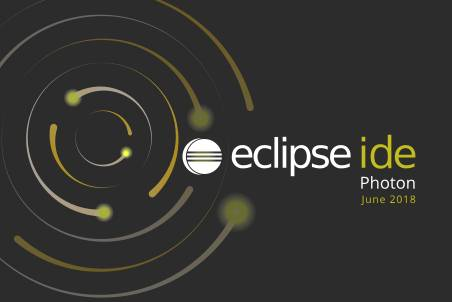
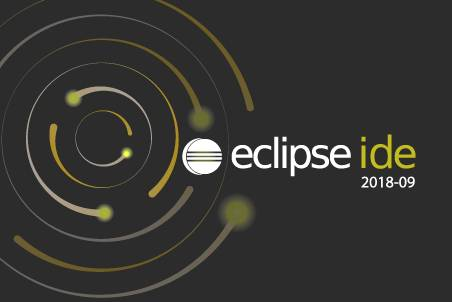
Añadida Actualización de Eclipse en Eclipse Instalación

diff --git a/otros/eclipse-instalacion.html b/otros/eclipse-instalacion.html
@@ -24,6 +24,7 @@
         <li><a href="#jre">Conseguir Java Runtime</a></li>
         <li><a href="#conseguir">Conseguir Eclipse PHP</a></li>
         <li><a href="#instalacion">Instalar Eclipse PHP</a></li>
+        <li><a href="#actualizacion">Actualizar Eclipse PHP</a></li>
       </ul>
     </div>
   </nav>
@@ -79,7 +80,19 @@
 
     <p>En este curso se aconseja utilizar el editor <strong>Eclipse for PHP Developers</strong> (Eclipse PHP).</p>
 
-    <p>La última versión disponible actualmente (septiembre de 2018) en la <a href="https://www.eclipse.org/downloads/packages/">web de Eclipse</a> es la versión Eclipse for PHP developers Photon, publicada el 27 de junio de 2018, basada en la plataforma Eclipse 4.8 y el plug-in Eclipse PDT 6.0.</p>
+    <p>La última versión disponible actualmente (septiembre de 2018) en la <a href="https://www.eclipse.org/downloads/packages/">web de Eclipse</a> es la versión Eclipse for PHP developers 2018-09, publicada el 19 de septiembre de 2018, basada en la plataforma Eclipse 4.9 y el plug-in Eclipse PDT 6.1.</p>
+
+    <p>Estos son los enlaces de descarga de Eclipse PHP 2018-09:</p>
+    <ul>
+      <li><a href="http://www.eclipse.org/downloads/download.php?file=/technology/epp/downloads/release/2018-09/R/eclipse-php-2018-09-win32-x86_64.zip">Eclipse for PHP developers 2018-09 (Windows, 64 bits, 204 MB)</a></li>
+      <li><a href="http://www.eclipse.org/downloads/download.php?file=/technology/epp/downloads/release/2018-09/R/eclipse-php-2018-09-win32.zip">Eclipse for PHP developers 2018-09 (Windows, 32 bits, 204 MB)</a></li>
+    </ul>
+
+    <p>Si se está utilizando Windows de 64 bits, se recomienda instalar la versión de 64 bits de Eclipse PHP (aunque también se podría instalar la de 32 bits). Pero si se está utilizando Windows de 32 bits, se necesita instalar la versión de 32 bits.</p>
+
+    <hr class="corta" />
+
+    <p>Al empezar el curso 2018/19 la última versión disponible era la versión Eclipse for PHP developers Photon, publicada el 27 de junio de 2018, basada en la plataforma Eclipse 4.8 y el plug-in Eclipse PDT 6.0.</p>
 
     <p>Estos son los enlaces de descarga de Eclipse PHP Photon:</p>
     <ul>
@@ -87,9 +100,10 @@
       <li><a href="http://www.eclipse.org/downloads/download.php?file=/technology/epp/downloads/release/photon/R/eclipse-php-photon-R-win32.zip">Eclipse for PHP developers Photon (Windows, 32 bits, 205 MB)</a></li>
     </ul>
 
-    <p>Si se está utilizando Windows de 64 bits, se recomienda instalar la versión de 64 bits de Eclipse PHP (aunque también se podría instalar la de 32 bits). Pero si se está utilizando Windows de 32 bits, se necesita instalar la versión de 32 bits.</p>
+    <hr class="corta" />
 
     <p>En <a href="http://www.cdlibre.org/">cdlibre.org</a> hay una sección dedicada a <a href="http://www.cdlibre.org/consultar/catalogo/Desarrollo-Web_PHP-Editores.html">editores específicos para PHP</a>, desde la que se puede descargar la última versión disponible de Eclipse PHP para Windows (64 bits).</p>
+
   </section>
 
   <section id="instalacion">
@@ -97,17 +111,52 @@
 
     <p>Eclipse for PHP developers (Eclipse PHP) no se distribuye con instalador, sino como un archivo zip que contiene una carpeta eclipse-php que incluye todos los componentes necesarios (excepto Java Runtime, que debe descargarse e instalarse previamente). En Windows el archivo zip se puede descomprimir en cualquier carpeta en la que el usuaro tenga permisos y crear un acceso directo al programa eclipse.exe.</p>
 
-    <p>Se pueden tener varias versiones de Eclipse PHP instalados en el mismo ordenador, cada uno en su propia carpeta.</p>
+    <p>Se pueden tener varias versiones de Eclipse PHP instaladas en el mismo ordenador, cada una en su propia carpeta.</p>
 
-    <p>En este curso se aconseja instalar Eclipse PHP en la carpeta <strong>C:\software\eclipse-php-photon</strong> y crear un acceso directo en el escritorio al programa eclipse.exe (<strong>C:\software\eclipse-php-photon\eclipse.exe</strong>).</p>
+    <p>En este curso se aconseja instalar Eclipse PHP 2018-09 en la carpeta <strong>C:\software\eclipse-php-1809</strong> y crear un acceso directo en el escritorio al programa eclipse.exe (<strong>C:\software\eclipse-php-1809\eclipse.exe</strong>).</p>
+
+    <p><strong>Nota</strong>: Al empezar el curso 2018/19 se aconsejó instalar Eclipse PHP Photon (la versión disponible entonces) en la carpeta <strong>C:\software\eclipse-php-photon</strong> y crear un acceso directo en el escritorio al programa eclipse.exe (<strong>C:\software\eclipse-php-photon\eclipse.exe</strong>).</p>
 
     <p>Eclipse PHP guarda toda la información de configuración y de trabajo en los llamados espacios de trabajo (workspace). Se pueden tener varios espacios de trabajo en el mismo ordenador y al iniciar Eclipse PHP se puede elegir el espacio de trabajo en el que se va a trabajar. En este curso se aconseja guardar el espacio de trabajo en la carpeta <strong>C:\software\eclipse-workspace-nombre-de-usuario-php</strong>, como se explica en la lección <a href="eclipse-configuracion-1.html">Configuración de Eclipse PHP (1)</a>.</p>
 
     <p>Los espacios de trabajo de una versión se pueden en principio usar en otra versión posterior, pero no al contrario. Al abrir un espacio de trabajo de una versión anterior, Eclipse avisa si es necesario hacer una conversión automática. Por otro lado, para no tener que empezar desde cero, la configuración de un espacio de trabajo se puede exportar e importarla en otro.</p>
   </section>
 
+  <section id="actualizacion">
+    <h2>Actualizar Eclipse for PHP developers en Windows</h2>
+
+    <p>Si quiere evitar cualquier tipo de problemas entre las diferentes versiones de Eclipse PHP, al instalar una nueva versión haga una instalación separada:</p>
+    <ul>
+      <li>instale la nueva versión de Eclipse PHP en una carpeta distinta a la de la versión anterior</li>
+      <li>cree una nueva carpeta para un nuevo espacio de trabajo (<i>workspace</i>), distinta a la carpeta del espacio de trabajo de la versión anterior</li>
+      <li>abra la nueva versión de Eclipse PHP y elija el nuevo espacio de trabajo</li>
+      <li>configure el nuevo workspace</li>
+      <li>compruebe que el nuevo Eclipse PHP funciona correctamente</li>
+      <li>al cabo de un tiempo, borre la versión antigua de Eclipse PHP y el antiguo espacio de trabajo</li>
+    </ul>
+
+    <p>Esta opción tiene el inconveniente de que es necesario configurar el nuevo Eclipse PHP desde cero.</p>
+
+    <hr class="corta" />
+
+    <p>Si quiere reutilizar el antiguo espacio de trabajo:</p>
+    <ul>
+      <li>instale la nueva versión de Eclipse PHP en una carpeta distinta a la de la versión anterior</li>
+      <li>abra la nueva versión de Eclipse PHP y elija el antiguo espacio de trabajo (<i>workspace</i>).</li>
+      <li>Eclipse PHP mostrará un aviso indicando que el espacio de trabajo fue crado por una versión anterior de Eclipse PHP y que su actualización a la nueva versión puede hacerlo incompatible con la versión anterior:
+        <p class="captura">
+          <img src="../img/eclipse/eclipse-workspace-actualizacion.png" alt="Eclipse. Actualización workspace" width="518" height="210" />
+        </p>
+      </li>
+      <li>compruebe que el nuevo Eclipse PHP funciona correctamente</li>
+      <li>al cabo de un tiempo, borre la versión antigua de Eclipse PHP</li>
+    </ul>
+
+    <p>Esta opción tiene el inconveniente de que el espacio de trabajo puede quedar inutilizable para la versión anterior de Eclipse.</p>
+  </section>
+
   <footer>
-    <p class="ultmod">Última modificación de esta página: 10 de septiembre de 2018</p>
+    <p class="ultmod">Última modificación de esta página: 26 de septiembre de 2018</p>
 
     <p class="licencia">
       <a rel="license" href="https://creativecommons.org/licenses/by-sa/4.0/deed.es_ES"><img src="../varios/iconos/icono-cc-by-sa.svg" alt="Licencia Creative Commons" title="Licencia Creative Commons BY-SA" width="120" height="42" /></a><br />

diff --git a/ejercicios/ejercicios-como.html b/ejercicios/ejercicios-como.html
@@ -75,13 +75,13 @@
 
     <p>Para facilitar la realización de los ejercicios, al principio de cada página de ejercicios hay un enlace a un fichero zip que incluye unas plantillas de los ejercicios. Las plantillas incluyen todo el html que no cambia al actualizar la página, para que el alumno no pierda tiempo identificando y copiando y pegando código html de los ejemplos. Las plantillas también incluyen las etiquetas de apertura y cierre de los fragmentos php. En el fichero zip también se incluyen, en su caso, las imágenes utilizadas en los ejercicios.</p>
 
-    <p><strong>Nota</strong>: En la primera página de ejercicios (Primeras páginas) el fichero de plantillas sólo incluye imágenes, para que el alumno practique con esos ejercicios el crear los ficheros y copiar código. En el resto de páginas de ejercicios esa tarea repetitiva ya no es necesaria, pero se aconseja que de vez en cuando un ejercicio se haga "desde cero", sin utilizar las plantillas.</p>
+    <p><strong>Nota</strong>: Las plantillas se proporcionan para evitar al alumno el trabajo repetitivo, pero se aconseja hacer de vez en cuando algún ejercicio "desde cero", sin utilizar las plantillas.</p>
   </section>
 
   <section id="ejemplos">
     <h2>Consultar los ejemplos de ejercicios</h2>
 
-    <p>En la mayoría de enunciados de los ejercicios se incluye un ejemplo de ejercicio de muestra y un enlace al ejemplo, que se puede abrir en una pestaña (o ventana) diferente.</p>
+    <p>En los enunciados de los ejercicios se incluye normalmente un ejemplo de ejercicio de muestra y un icono de enlace al ejemplo <img src="../varios/iconos/icono-enlace.svg" alt="Enlace a ejemplo" title="Enlace a ejemplo" width="31" height="36" />, que permite abrir el ejercicio de muestra en una pestaña (o ventana) diferente.</p>
 
     <p>Estos ejemplos se pueden utilizar para:</p>
     <ul>
@@ -90,7 +90,7 @@
       <li>copiar el código html</li>
     </ul>
 
-    <p>En los ejemplos de ejercicios, los nombres de los ficheros suelen coincidir con el nombre de la lección y el número del ejercicio. Por ejemplo, en los ejercicios de la página Primeras páginas los ficheros se llaman primeras-paginas-1.php, primeras-paginas-2.php, etc. Si un ejercicio consta de varias páginas php, se añade un número de orden. Por ejemplo, en el primer ejercicio de la página Operaciones aritméticas los ficheros se llaman operaciones-aritmeticas-1-1.php y operaciones-aritmeticas-1-2.php.</p>
+    <p>En los ejemplos de ejercicios, los nombres de los ficheros suelen coincidir con el nombre de la lección y el número del ejercicio. Por ejemplo, en los ejercicios de la página Primeras páginas los ficheros se llaman primeras-paginas-1.php, primeras-paginas-2.php, etc. Si un ejercicio consta de varias páginas php, se añade un número de orden. Por ejemplo, el tercer ejercicio de la página Primeras páginas consta de dos páginas que se llaman primeras-paginas-3-1.php y primeras-paginas-3-2.php.</p>
 
     <p>Se recomienda utilizar los mismos nombres de archivos que los de los ejercicios de muestra, para no tener problemas en los enlaces al copiar porciones de código html de los ejercicios de muestra.</p>
   </section>

diff --git a/otros/clase.html b/otros/clase.html
@@ -147,7 +147,7 @@
     </ol>
   </section>
 
-  <section>
+  <section id="s03">
     <h2>Semana S03: del 24/09/18 al 30/09/18</h2>
 
     <p>En la primera parte del curso de PHP vamos a hacer un pequeño repaso general de PHP, tocando los temas vistos el año pasado en el módulo LMSGI: variables, operaciones, if ... else .. y for ... además de las matrices, un tipo de variable que permite almacenar varios datos distintos en una sola variable. Esta parte la he llamado <strong>PHP, sin formularios</strong> porque las páginas no contienen formularios, por lo que el usuario no puede proporcionar información a los programas. Para que cada vez que se ejecuten los programas los resultados sean distintos, recurriremos a números aleatorios.</p>
@@ -160,7 +160,7 @@
 
     <p>En la lección <a href="http://www.mclibre.org/consultar/php/otros/eclipse-instalacion.html#actualizacion">Instalación de Eclipse PHP</a> he añadido un apartado sobre la actualización de Eclipse PHP.</p>
 
-    <p><img alt="¡Atención!" src="atencion.png" width="55" height="50" title="¡Atención!" />No es imprescindible instalar la nueva versión, pero como en cada versión se corrigen fallos y la actualización es sencilla, creo que vale la pena actualizarse.</p>
+    <p>No es imprescindible instalar la nueva versión, pero como en cada versión se corrigen fallos y la actualización es sencilla, creo que vale la pena actualizarse.</p>
 
     <h3>Variables y operaciones</h3>
 

diff --git a/otros/historia-cuadros.html b/otros/historia-cuadros.html
@@ -55,8 +55,11 @@
           <td>¿Dic?: PHP 7.3</td>
           <td>Abr: MySQL 8.0.11</td>
           <td>May: MariaDB 10.3.7</td>
-          <td></td>
-          <td>Jun: Eclipse PHP Photon</td>
+          <td>Ago: XAMPP 7.2.9 (Apache 2.4.34 + PHP 7.2.9 + MariaDB 10.1.35)</td>
+          <td>¿Dic?: Eclipse PHP 2018-12<br />
+            Sept: Eclipse PHP 2018-09<br />
+            Jun: Eclipse PHP Photon
+          </td>
           <th>2018</th>
         </tr>
         <tr>
@@ -532,7 +535,7 @@
   </section>
 
   <footer>
-    <p class="ultmod">Última modificación de esta página: 27 de junio de 2018</p>
+    <p class="ultmod">Última modificación de esta página: 26 de septiembre de 2018</p>
 
     <p class="licencia">
       <a rel="license" href="https://creativecommons.org/licenses/by-sa/4.0/deed.es_ES"><img src="../varios/iconos/icono-cc-by-sa.svg" alt="Licencia Creative Commons" title="Licencia Creative Commons BY-SA" width="120" height="42" /></a><br />

diff --git a/otros/eclipse-configuracion-1.html b/otros/eclipse-configuracion-1.html
@@ -69,7 +69,7 @@
   <section id="workspace">
     <h2>Espacio de trabajo (Workspace)</h2>
 
-    <p>Al iniciar Eclipse PHP mientras se carga el programa se muestra una imagen que indica la versión de Eclipse, en este caso Eclipse PHP Photon (publicada en septiembre de 2018).</p>
+    <p>Al iniciar Eclipse PHP mientras se carga el programa se muestra una imagen que indica la versión de Eclipse, en este caso Eclipse PHP 2018-09 (publicada en septiembre de 2018).</p>
 
     <p class="captura">
       <img src="../img/eclipse/eclipse-workspace-1.jpg" alt="Eclipse PHP - Inicio" width="452" height="302" />
